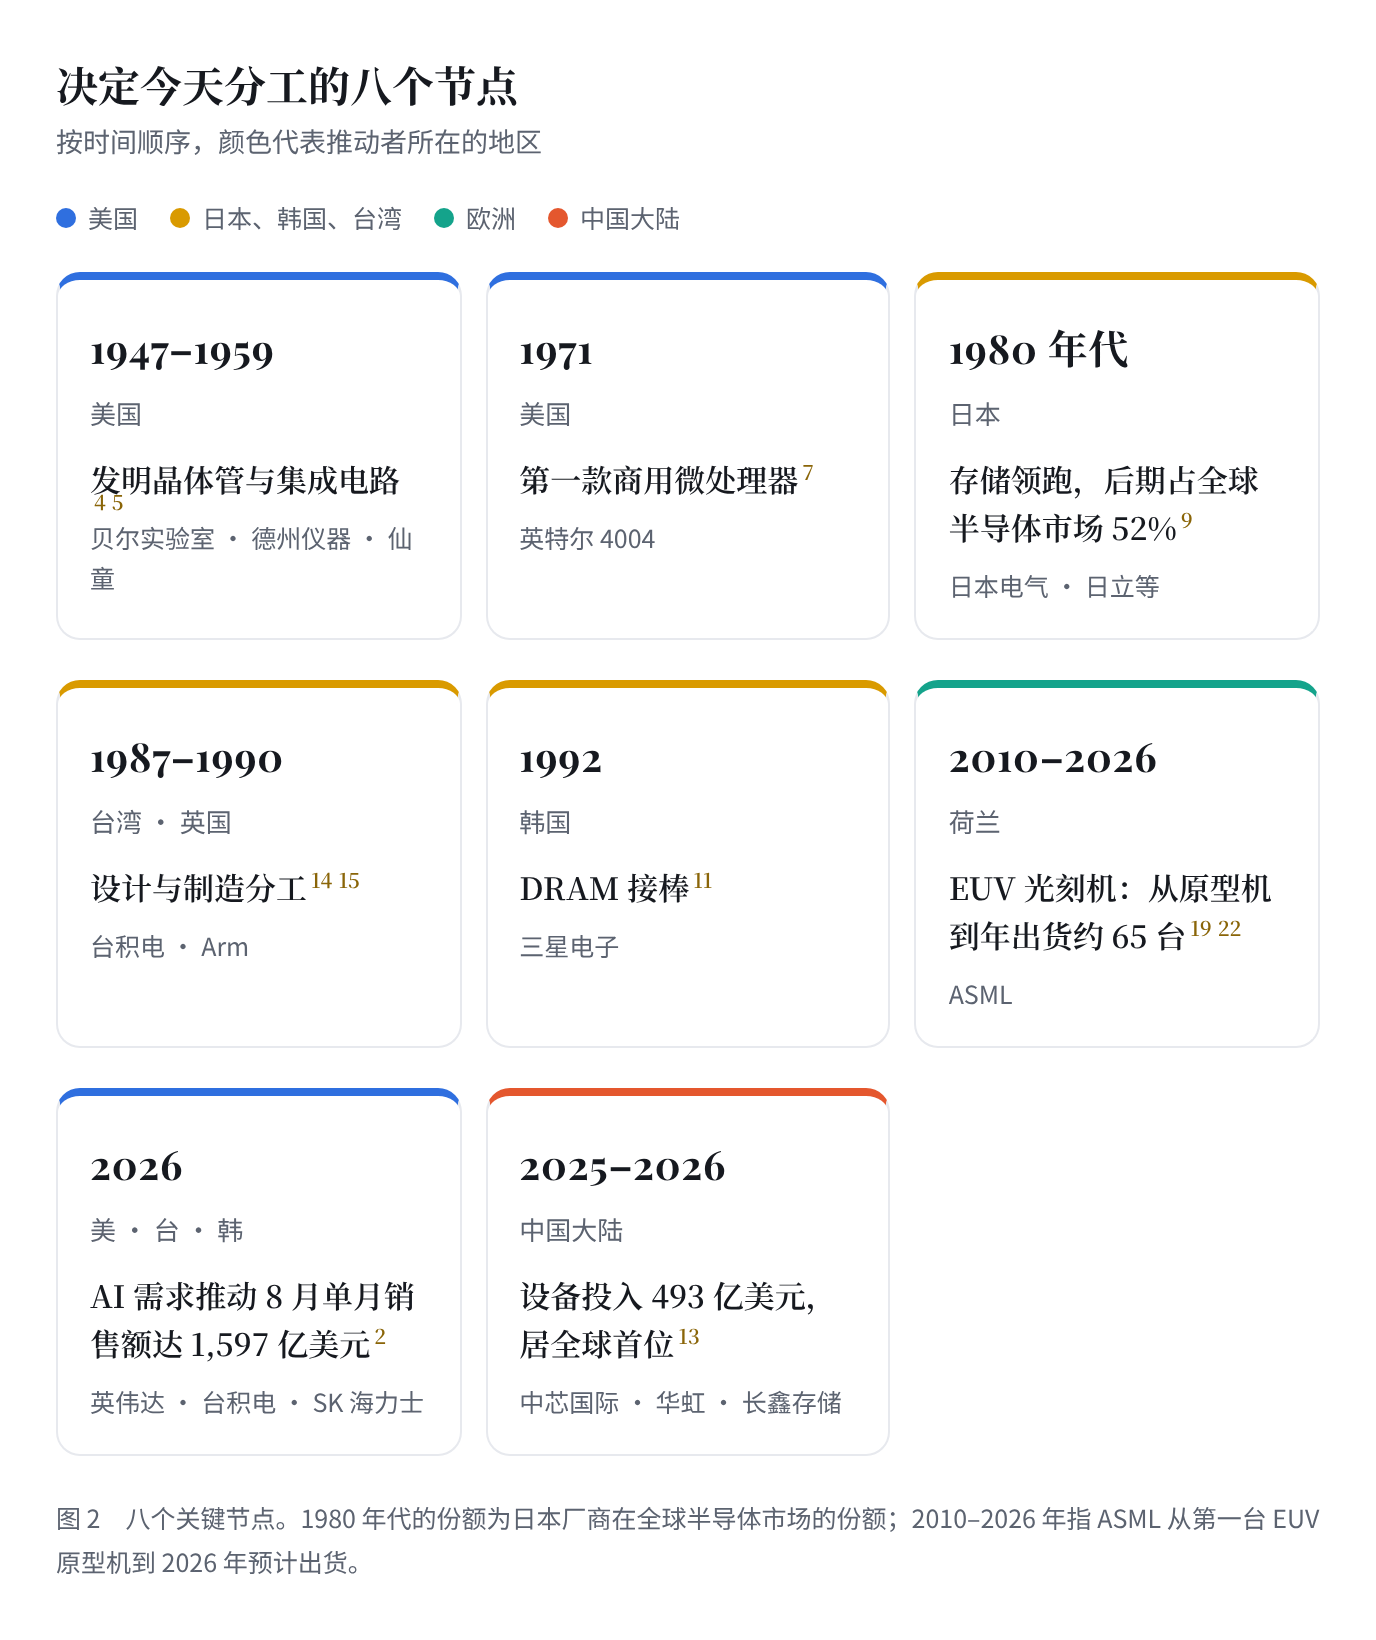
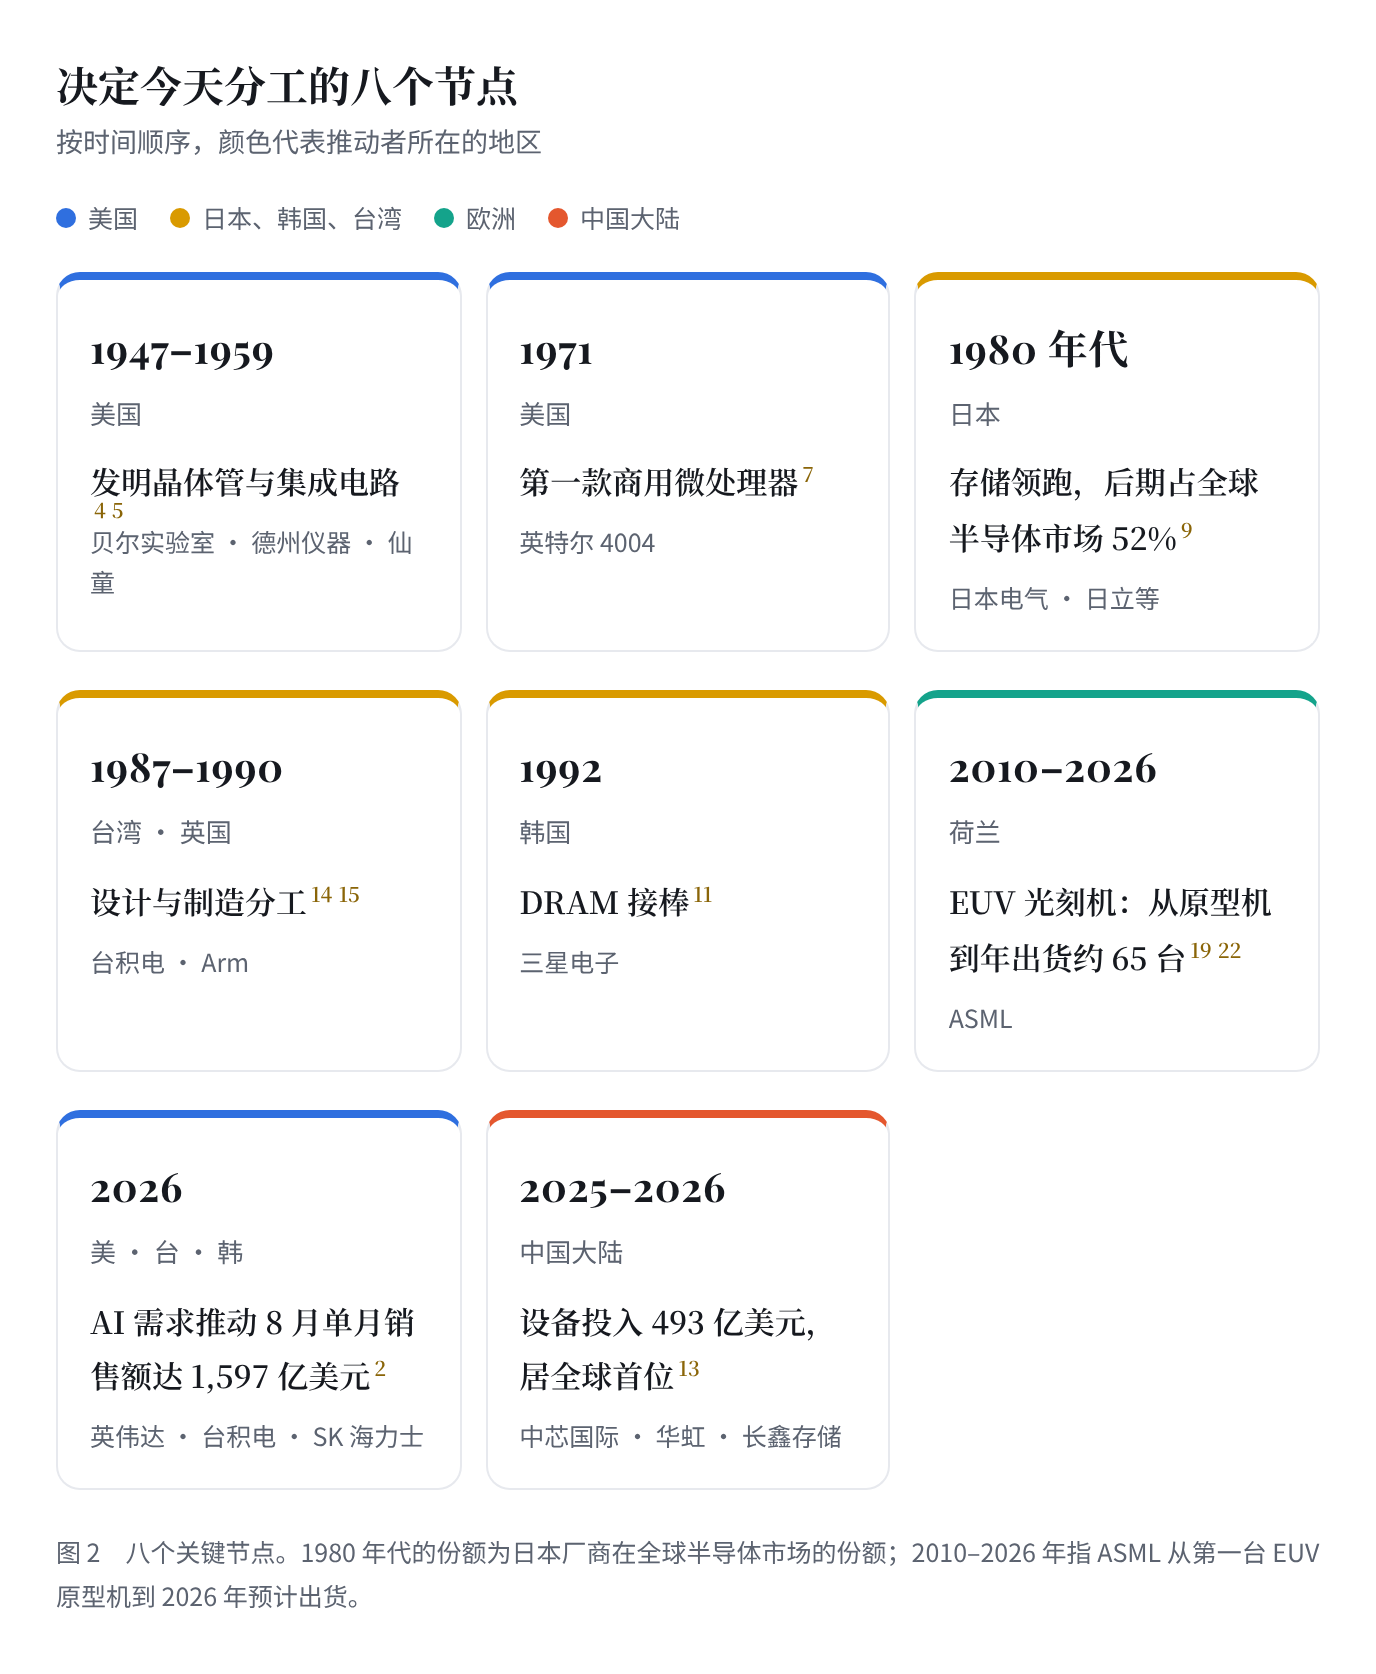
Fix citation wrapping in timeline cards
Claude-Session: https://claude.ai/code/session_014zv6eXk3YSy9fcYbiG4a91

diff --git a/content/chip-world-map-article.html b/content/chip-world-map-article.html
@@ -44,7 +44,7 @@ body{margin:0;background:var(--bg);color:var(--ink);font-family:var(--sans);font
 .prose li{margin-bottom:.45em}
 .prose li::marker{color:var(--gold)}
 .prose a{color:var(--link);text-decoration-color:var(--gold);text-underline-offset:3px}
-sup.cite{font-size:.66em;line-height:0;margin-left:1px;vertical-align:super}
+sup.cite{font-size:.66em;line-height:0;margin-left:1px;vertical-align:super;white-space:nowrap}
 sup.cite a{color:var(--gold-ink);text-decoration:none;font-weight:600;padding:0 1px}
 sup.cite a:hover{background:var(--gold);color:#fff;border-radius:3px}
 /* figures */
@@ -73,7 +73,7 @@ figcaption{font-size:12.5px;line-height:1.75;color:var(--muted);margin-top:12px}
 .c-us{border-top-color:var(--us)}.c-ea{border-top-color:var(--ea)}.c-eu{border-top-color:var(--eu)}.c-cn{border-top-color:var(--cn)}
 .tl-when{font-family:var(--disp);font-size:20px;font-weight:700;letter-spacing:.02em}
 .tl-who{font-size:13px;color:var(--muted);margin:1px 0 8px}
-.tl-what{font-family:var(--serif);font-weight:600;font-size:15.5px;line-height:1.55;margin-bottom:8px}
+.tl-what{font-family:var(--serif);font-weight:600;font-size:15.5px;line-height:1.8;margin-bottom:6px}
 .tl-co{font-size:12.5px;color:var(--muted);line-height:1.6}
 /* ai flow */
 .flow{display:grid;grid-template-columns:1fr auto 1fr auto 1fr auto 1fr;gap:8px;align-items:stretch}

diff --git a/content/tools/build_article.py b/content/tools/build_article.py
@@ -257,7 +257,7 @@ body{margin:0;background:var(--bg);color:var(--ink);font-family:var(--sans);font
 .prose li{margin-bottom:.45em}
 .prose li::marker{color:var(--gold)}
 .prose a{color:var(--link);text-decoration-color:var(--gold);text-underline-offset:3px}
-sup.cite{font-size:.66em;line-height:0;margin-left:1px;vertical-align:super}
+sup.cite{font-size:.66em;line-height:0;margin-left:1px;vertical-align:super;white-space:nowrap}
 sup.cite a{color:var(--gold-ink);text-decoration:none;font-weight:600;padding:0 1px}
 sup.cite a:hover{background:var(--gold);color:#fff;border-radius:3px}
 /* figures */
@@ -286,7 +286,7 @@ figcaption{font-size:12.5px;line-height:1.75;color:var(--muted);margin-top:12px}
 .c-us{border-top-color:var(--us)}.c-ea{border-top-color:var(--ea)}.c-eu{border-top-color:var(--eu)}.c-cn{border-top-color:var(--cn)}
 .tl-when{font-family:var(--disp);font-size:20px;font-weight:700;letter-spacing:.02em}
 .tl-who{font-size:13px;color:var(--muted);margin:1px 0 8px}
-.tl-what{font-family:var(--serif);font-weight:600;font-size:15.5px;line-height:1.55;margin-bottom:8px}
+.tl-what{font-family:var(--serif);font-weight:600;font-size:15.5px;line-height:1.8;margin-bottom:6px}
 .tl-co{font-size:12.5px;color:var(--muted);line-height:1.6}
 /* ai flow */
 .flow{display:grid;grid-template-columns:1fr auto 1fr auto 1fr auto 1fr;gap:8px;align-items:stretch}
